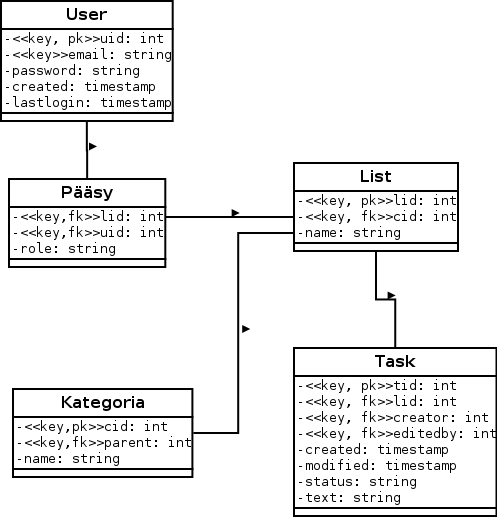
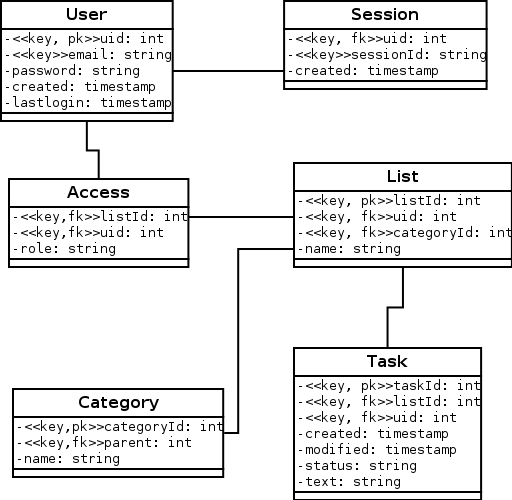
dev & prod confs for db

Changed region(s): [[0.0, 0.0, 1.0, 1.0]]

diff --git a/public/js/controllers/login.js b/public/js/controllers/login.js
@@ -16,17 +16,23 @@ define([
     var email = bjq.textFieldValue(element.find('.email'), ''),
         password = bjq.textFieldValue(element.find('.password'), '');
 
-    var buttonEnabled = (function() {
-      return email.map(nonEmpty)
-        .and(password.map(nonEmpty))
-        .and(email.map(validEmail));
-    })();
 
     // Login submit handling.
     var loginButtonClick = element.find('[data-action="login"]').asEventStream('click').doAction('.preventDefault');
-    var loginResponse = Bacon.combineTemplate( {email : email, password : password} )
-      .sampledBy(loginButtonClick)
-      .flatMap(loginRequest);
+
+    var loginRequest = email.combine(password, function(e, p) {
+      return {
+         url: '/login',
+         type: "post",
+         data: {email: e, password: p}
+       };
+
+    }).sampledBy(loginButtonClick);
+
+    var loginResponse = loginRequest.ajax();
+
+    var loginPending = loginRequest.awaiting(loginResponse);
+
 
     loginResponse.onValue(function(response) {
       // TODO: Redirect to application page.
@@ -42,16 +48,18 @@ define([
     });
 
     // Side effects.
-    buttonEnabled.not().onValue(element.find('[data-action="login"]'), 'attr', 'disabled');
-    // TODO: Ajax throbber for pending requests.
-  }
+    var buttonEnabled = (function() {
+          return email.map(nonEmpty)
+            .and(password.map(nonEmpty))
+            .and(email.map(validEmail));
+        })();
 
-  function loginRequest(credentials) {
-    return Bacon.once({
-        url: '/login',
-        type: "post",
-        data: credentials
-      }).ajax();
+
+    var throbber = element.find('.throbber');
+    buttonEnabled.onValue(setEnabled, element.find('[data-action="login"]'));
+    loginPending.onValue(setVisibility, throbber);
+    loginPending.onError(setVisibility, throbber);
+    // TODO: Ajax throbber for pending requests.
   }
 
 

diff --git a/app.js b/app.js
@@ -3,25 +3,37 @@
  *
  * Initialises the application.
  */
-var express = require("express"),
+var express = require('express'),
     app = express()
     mysql = require('mysql'),
     routes = require('./routes'),
     consolidate = require('consolidate'),
-    less = require('less-middleware');
+    less = require('less-middleware'),
+    configs = null;
+
+switch(process.env.NODE_ENV){
+    case 'production':
+        configs = require('./config/production');
+        break;
+    case 'development':
+        configs = require('./config/development');
+        break;
+
+    default:
+        throw new Exception('Wrong environment!');
+}
 
 // Database connection object.
 var connection = mysql.createConnection({
-  host     : '127.0.0.1',
-  user     : 'root',
-  password : '',
-  database : 'todoapp'
+  host     : configs.db.host,
+  user     : configs.db.user,
+  password : configs.db.password,
+  database : configs.db.database
 });
 
 // Establish database connection.
 // TODO: Remember to kill this at some point.
 connection.connect();
-
 
 // Add application logging.
 app.use(express.logger());
@@ -59,5 +71,5 @@ var port = process.env.PORT || 8080;
 
 // Start server.
 app.listen(port, function() {
-  console.log("App started on port: " + port);
+  console.log('App started on port: ' + port);
 });

diff --git a/model/users.js b/model/users.js
@@ -15,7 +15,7 @@ function UsersDAO(connection) {
     var salt = bcrypt.genSaltSync();
     var passwordHash = bcrypt.hashSync(data.password, salt);
 
-    var query = 'INSERT INTO users (email, password, firstname, lastname) ' +
+    var query = 'INSERT INTO user (email, password, firstname, lastname) ' +
                 'VALUES (' +
                   connection.escape(data.email) + ', ' +
                   connection.escape(passwordHash) + ', ' +
@@ -60,7 +60,7 @@ function UsersDAO(connection) {
     }
 
 
-    var query = 'SELECT * FROM users WHERE email = ' + connection.escape(email) + ' LIMIT 1';
+    var query = 'SELECT * FROM user WHERE email = ' + connection.escape(email) + ' LIMIT 1';
     connection.query(query, function(err, user) {
       validateUser(err, user);
     });
@@ -69,7 +69,7 @@ function UsersDAO(connection) {
   // Checks if username is already in use.
   this.usernameExists = function(username, callback) {
 
-    var query = 'SELECT * FROM users WHERE email = ' + connection.escape(username);
+    var query = 'SELECT * FROM user WHERE email = ' + connection.escape(username);
 
     connection.query(query, function(err, results) {
       var exists = (results.length === 0) ? false : true;

diff --git a/routes/session.js b/routes/session.js
@@ -30,7 +30,8 @@ function SessionHandler(connection) {
 
   // Handles login form.
   this.handleLogin = function(req, res, next) {
-    users.validateLogin(req.body.email, req.body.password, function(err, user) {
+  setTimeout(function() {
+users.validateLogin(req.body.email, req.body.password, function(err, user) {
 
       if (err) {
         if (err.invalidCredentials) {
@@ -51,6 +52,8 @@ function SessionHandler(connection) {
       });
 
     });
+  }, 2000);
+
   }
 
   // Logs user out of the app.

diff --git a/public/js/lib/helpers.js b/public/js/lib/helpers.js
@@ -4,3 +4,13 @@ function validEmail(x) {
   var re = /^(([^<>()[\]\\.,;:\s@\"]+(\.[^<>()[\]\\.,;:\s@\"]+)*)|(\".+\"))@((\[[0-9]{1,3}\.[0-9]{1,3}\.[0-9]{1,3}\.[0-9]{1,3}\])|(([a-zA-Z\-0-9]+\.)+[a-zA-Z]{2,}))$/;
   return re.test(x);
 }
+
+function setVisibility(element, visible) {
+  console.log(element);
+  console.log(visible);
+  element.toggle(visible)
+}
+
+function setEnabled(element, enabled) {
+  element.attr("disabled", !enabled)
+}

diff --git a/config/production.js b/config/production.js
@@ -1,0 +1,10 @@
+var config = {
+  db : {
+    host     : 'eu-cdbr-west-01.cleardb.com',
+    user     : 'b79584d80adc06',
+    password : '36ab470e',
+    database : 'heroku_798daeacbebf007'
+  }
+}
+
+module.exports = config

diff --git a/config/development.js b/config/development.js
@@ -1,0 +1,10 @@
+var config = {
+  db : {
+    host     : '127.0.0.1',
+    user     : 'root',
+    password : '',
+    database : 'todoapp'
+  }
+}
+
+module.exports = config
